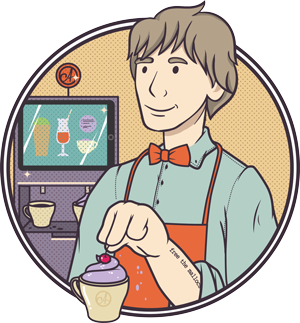
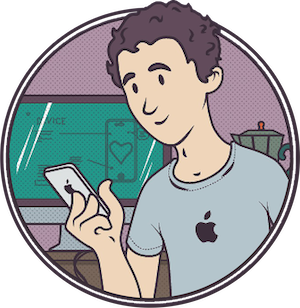
Added new developers
what a sausage party…

diff --git a/about-us.html b/about-us.html
@@ -110,6 +110,12 @@
 				<!-- <div class="about">I enjoyed working in male-dominated teams in the knowledge that being the only woman in the room meant I was affecting the dynamic and making a subtle but satisfying difference.</div> -->
 			</div>
 			<div class="person">
+				<div class="foto"><img src="images/about_us/alex.png" srcset="images/about_us/alex_hq.png" alt="Alex"/></div>
+				<div class="name">Alex</div>
+				<div class="occupation">Project Manager</div>
+				<!-- <div class="about">It appears that the term "good code" and "bad code" are very subjective. Since I have one view, it may be very different from others' view of them.</div> -->
+			</div>
+			<div class="person">
 				<div class="foto"><img src="images/about_us/sergey.png" srcset="images/about_us/sergey_hq.png" alt="Sergey"/></div>
 				<div class="name">Sergey</div>
 				<div class="occupation">iOS Developer</div>
@@ -121,12 +127,24 @@
 				<div class="occupation">iOS Developer</div>
 				<!-- <div class="about">With all the talk about self-improvement these days, people don't pay enough attention to self-worsening.</div> -->
 			</div>
-			<!-- <div class="person">
-				<div class="foto"><img src="images/about_us/alex.png"  srcset="images/about_us/alex_hq.png" alt="Alex"/></div>
-				<div class="name">Alex</div>
-				<div class="occupation">Android Developer</div> -->
+			<div class="person">
+				<div class="foto"><img src="images/about_us/ivan.png"  srcset="images/about_us/ivan_hq.png" alt="Ivan"/></div>
+				<div class="name">Ivan</div>
+				<div class="occupation">iOS & Roku Developer</div>
 				<!-- <div class="about">It appears that the term "good code" and "bad code" are very subjective. Since I have one view, it may be very different from others' view of them.</div> -->
-			<!--</div>-->
+			</div>
+			<div class="person">
+				<div class="foto"><img src="images/about_us/ruslan.png" srcset="images/about_us/ruslan_hq.png" alt="Ruslan"/></div>
+				<div class="name">Ruslan</div>
+				<div class="occupation">iOS & Roku Developer</div>
+				<!-- <div class="about">It appears that the term "good code" and "bad code" are very subjective. Since I have one view, it may be very different from others' view of them.</div> -->
+			</div>
+			<div class="person">
+				<div class="foto"><img src="images/about_us/vasyl.png" srcset="images/about_us/vasyl_hq.png" alt="Vasyl"/></div>
+				<div class="name">Vasyl</div>
+				<div class="occupation">iOS Developer</div>
+				<!-- <div class="about">It appears that the term "good code" and "bad code" are very subjective. Since I have one view, it may be very different from others' view of them.</div> -->
+			</div>
 			<div class="person">
 				<div class="foto"><img src="images/about_us/oleg.png"  srcset="images/about_us/oleg_hq.png" alt="Oleg"/></div>
 				<div class="name">Oleg</div>
@@ -134,9 +152,15 @@
 				<!-- <div class="about">It appears that the term "good code" and "bad code" are very subjective. Since I have one view, it may be very different from others' view of them.</div> -->
 			</div>
 			<div class="person">
-				<div class="foto"><img src="images/about_us/max.png" srcset="images/about_us/max_hq.png" alt="Max"/></div>
-				<div class="name">Max</div>
+				<div class="foto"><img src="images/about_us/vasya.png" srcset="images/about_us/vasya_hq.png" alt="Vasya"/></div>
+				<div class="name">Vasya</div>
 				<div class="occupation">Android Developer</div>
+				<!-- <div class="about">It appears that the term "good code" and "bad code" are very subjective. Since I have one view, it may be very different from others' view of them.</div> -->
+			</div>
+			<div class="person">
+				<div class="foto"><img src="images/about_us/vital.png" srcset="images/about_us/vital_hq.png" alt="Vital"/></div>
+				<div class="name">Vital</div>
+				<div class="occupation">QA Engineer</div>
 				<!-- <div class="about">It appears that the term "good code" and "bad code" are very subjective. Since I have one view, it may be very different from others' view of them.</div> -->
 			</div>
 		</div>
